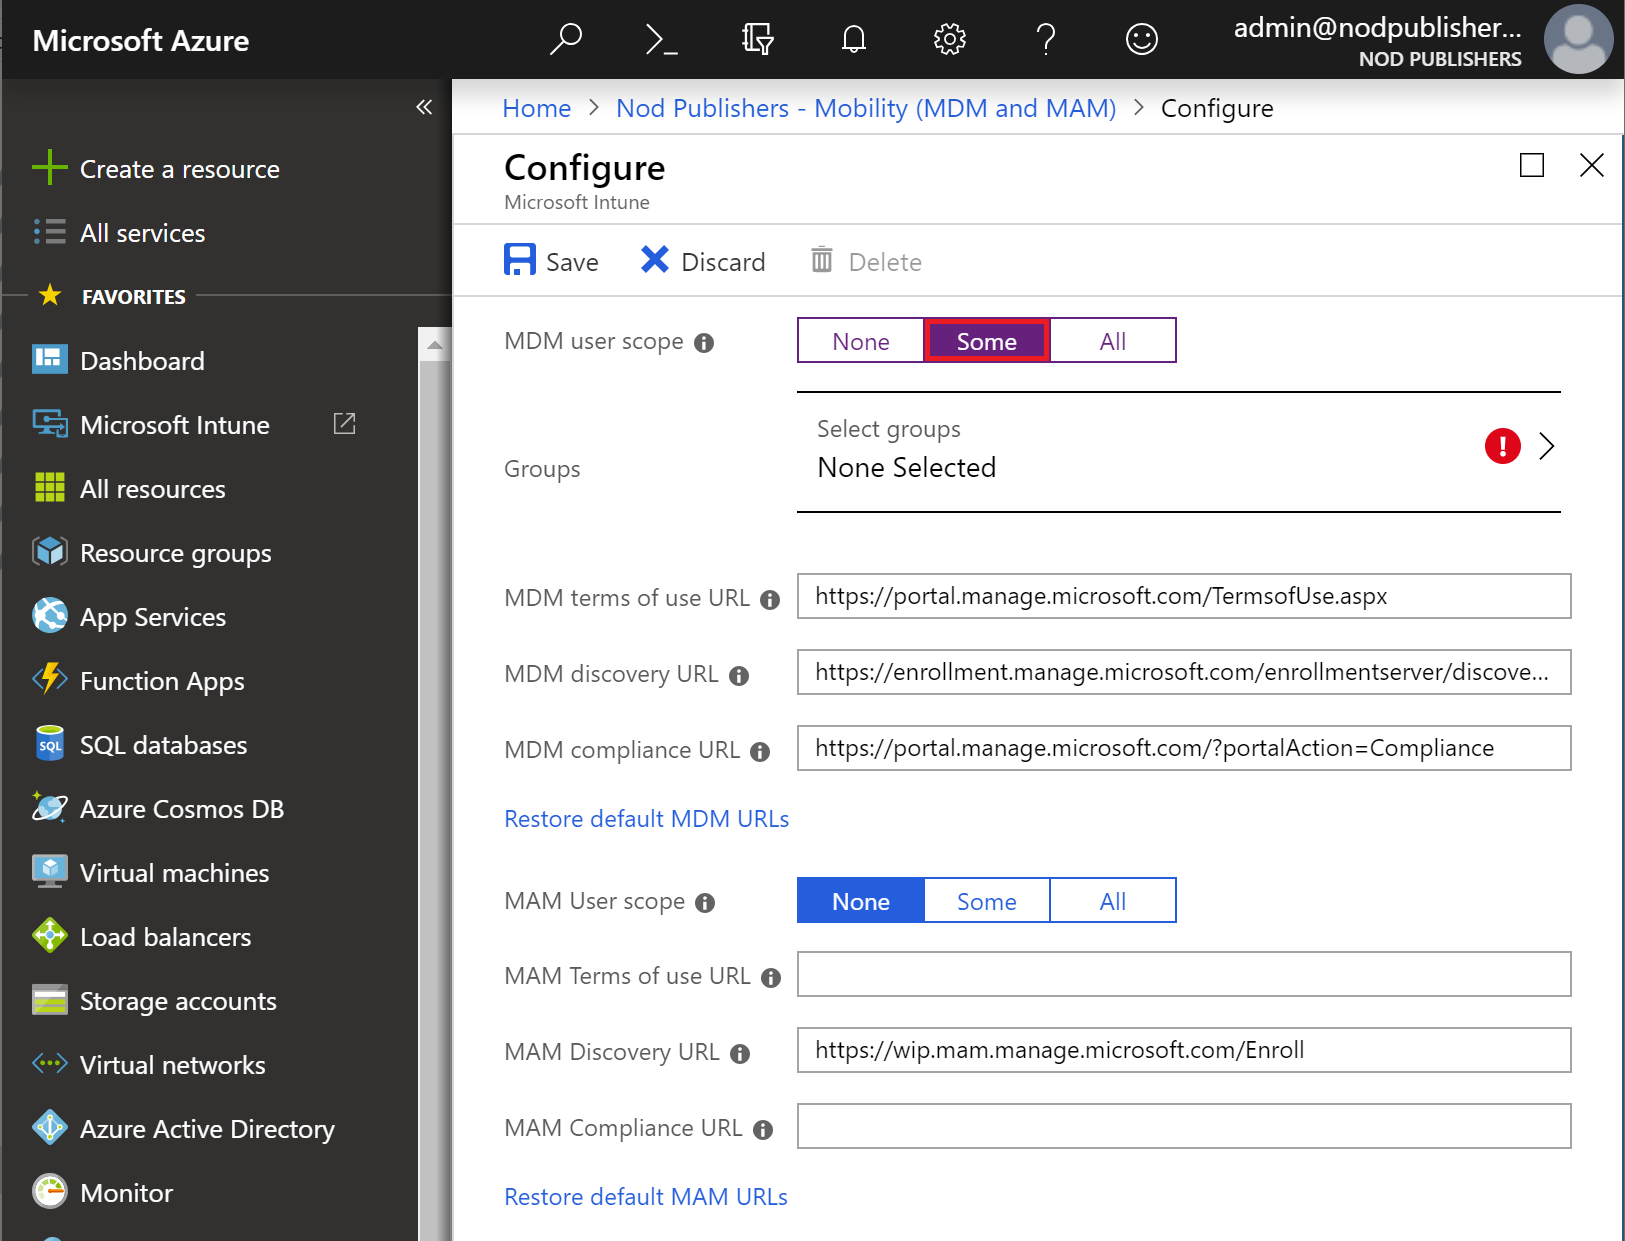
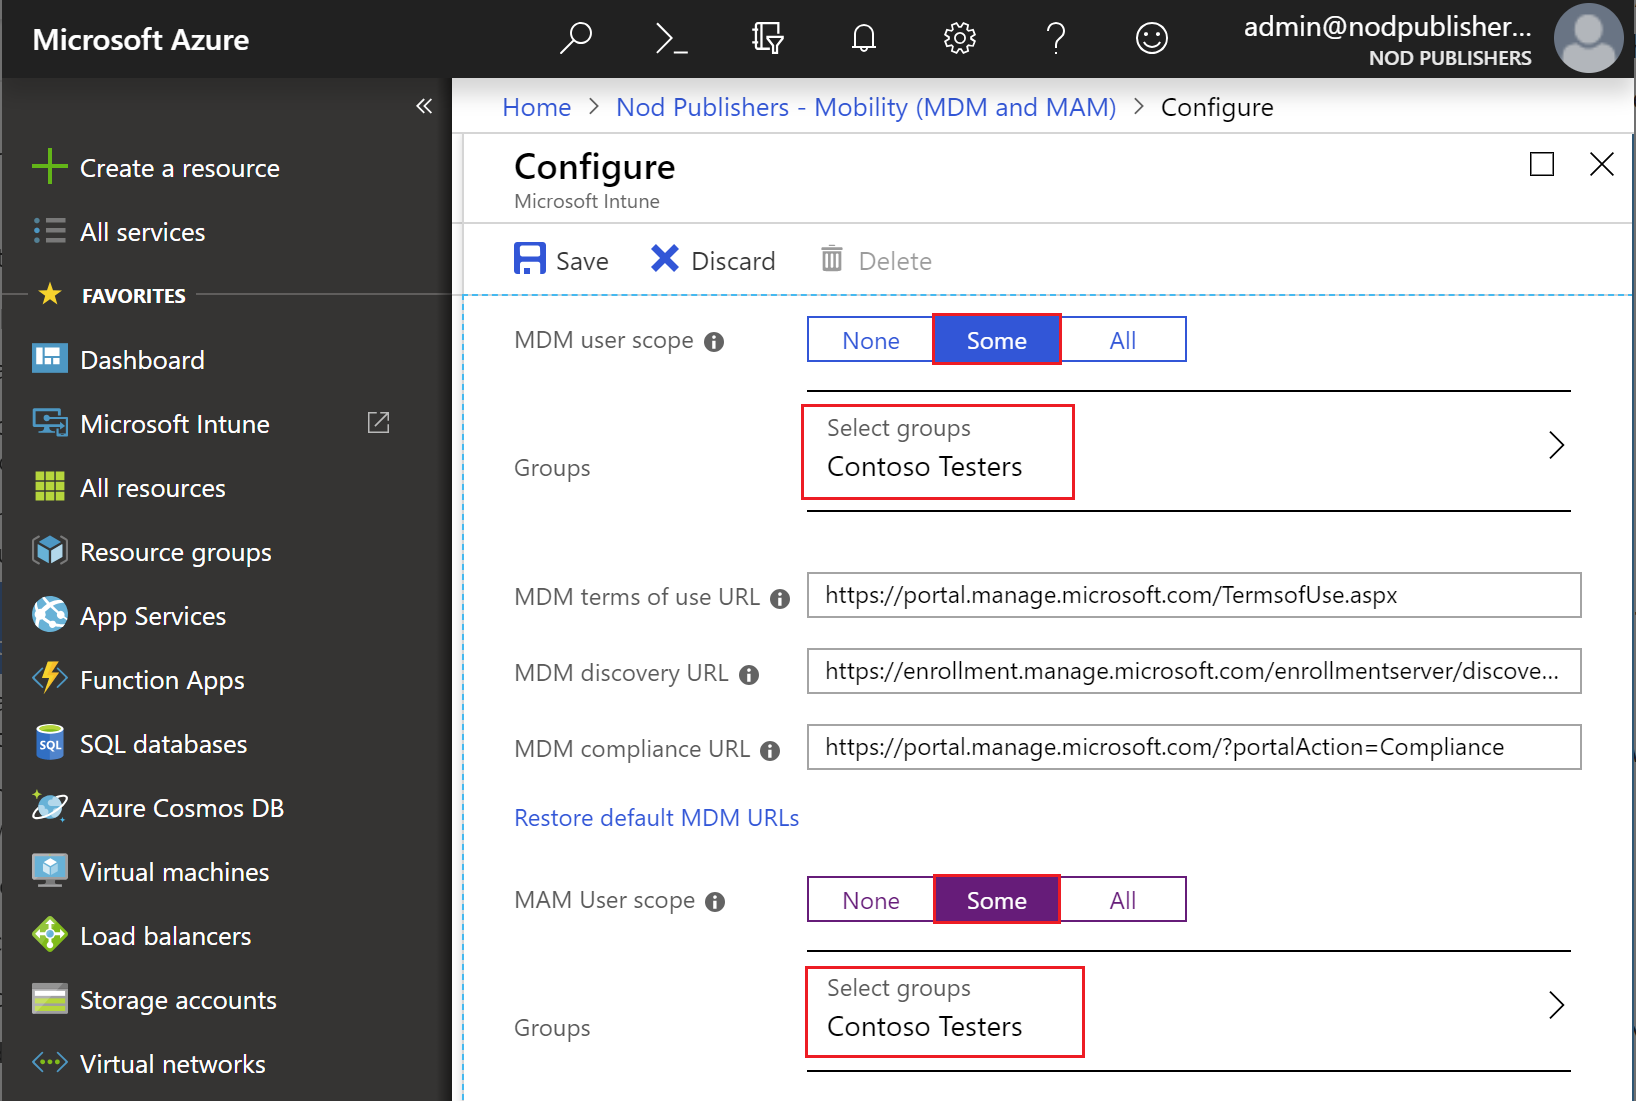
erikre 1377862 MVC AddApp 1.1

diff --git a/intune/quickstart-add-assign-app.md b/intune/quickstart-add-assign-app.md
@@ -1,14 +1,14 @@
 ---
 # required metadata
 
-title: Quickstart - Add and assign a required client app
+title: Quickstart - Add and assign a client app
 titlesuffix: Microsoft Intune
-description: In this quickstart you will use Microsoft Intune to add an assign a required client app.
+description: In this quickstart you will use Microsoft Intune to add an assign a client app.
 keywords:
 author: Erikre
 ms.author: erikre
 manager: dougeby
-ms.date: 11/06/2018
+ms.date: 11/08/2018
 ms.topic: quickstart
 ms.prod:
 ms.service: microsoft-intune
@@ -27,7 +27,7 @@ ms.custom: intune-azure
 
 ---
 
-# Quickstart: Add and assign a required client app
+# Quickstart: Add and assign a client app
 
 In this quickstart, you will use Intune to add and assign a client app to your company's workforce. One of an admin's priorities is to ensure that end users have access to the apps they need to do their work. 
 
@@ -44,8 +44,8 @@ If you don’t have an Intune subscription, [sign up for a free trial account](f
 
 1. In a browser, navigate to the Microsoft store:
     [https://www.microsoft.com/store/collections/essentialapps/pc](https://www.microsoft.com/store/collections/essentialapps/pc)
-2. Find and select the **OneNote** app. 
-3. Copy and save the URL of the **OneNote** app. You'll use the URL later in this quickstart.
+2. Find and select the **Microsoft To-Do** app. 
+3. Copy and save the URL of the **Microsoft To-Do** app. You'll use the URL later in this quickstart.
 
 ## Sign in to Intune
 
@@ -60,14 +60,15 @@ Use the following steps to add an app to Intune:
 1. In [Intune](https://aka.ms/intuneportal), select **Client apps** > **Apps** > **Add**. 
 2. Select **Windows** in the **Store app** section of the **App type** dropdown box.
 3. Select **App information** to configure the app.
-4. Enter **OneNote** as the **Name**.
-5. Enter **The Microsoft OneNote app.** as the **Description**.
+4. Enter **Contoso's To-Do** as the **Name**.
+5. Enter **The To-Do list app.** as the **Description**.
 6. Enter **Microsoft** as the publisher.
 7. Enter the URL that you [previously saved during this quickstart](quickstart-add-assign-app.md#locate-an-app-from-the-microsoft-store) in the **Appstore URL** box.
 
     ![Screenshot of adding app information](media/quickstart-add-assign-app/quickstart-add-assign-app-01.png)
 
-8. Click **OK** > **Add**.
+8. Click **Yes** next to **Display this as a featured app in the Company Portal**. 
+9. Click **OK** > **Add**.
 
 ## Assign the app to a group
 
@@ -81,18 +82,32 @@ Use the following steps to assign an app to a group:
 2. Select the app that you want to assign to a group.	
 3. Click **Assignments** > **Add group** to display the **Add group** blade.
 4. Select **Available for enrolled devices** in the **Assignment type** dropdown box. 
-5. Click **Select groups to include** > **Contoso Testers** > **Select**.
-6. Click **OK** > **OK** > **Save** to assign the group.
+5. Click **Included Groups** > **Select groups to include** > **Contoso Testers**.
+6. Click **Select** > **OK** > **OK** > **Save** to assign the group.
 
 You now have assigned the app to the **Contoso Testers** group.
 
 ## Verify the app on the enrolled device
 
+You must install and use the Company Portal app to install the **Contoso's To-Do** app made available by Intune. Use the following steps to verify that the app is available to the user of the enrolled device.
 
+1. Log in to your enrolled Windows 10 Desktop device.
+
+    > [!IMPORTANT]
+    > The device must be [enrolled with Intune](quickstart-enroll-windows-device.md). Also, you must sign in to the device using an account contained in the group you assigned to the app.
+
+2. From the **Start** menu, open the **Microsoft Store**. Then, find the **Company Portal** app and install it.
+3. Launch the **Company Portal** app.
+4. Find the app that you added using Intune. In this quickstart you added the **Contoso's To-Do** app.
+5. Click **View in Microsoft Store**.
+6. Click **Install**.  **Install on my devices**.
+7. Install the app to your current Windows 10 Desktop device.
+
+If your business needs require that you assign the Company Portal app to your workforce, you can manually assign the Windows 10 Company Portal app directly from Intune. For more information see, [Manually add the Windows 10 Company Portal app by using Microsoft Intune](store-apps-company-portal-app.md).
 
 ## Next steps
 
-In this quickstart, you added an app and created a new user group. Then, you assigned the app to the user group and verified the app on the enrolled device. 
+In this quickstart, you locateed an app from the Microsoft store, added the app to Intune, assigned the app to a group, and verified the availability of the app on the enrolled Windows 10 Desktop device. 
 
 > [!div class="nextstepaction"]
 > [Quickstart: Create and assign an app protection policy](quickstart-create-assign-app-policy.md)

diff --git a/intune/quickstart-create-assign-app-policy.md b/intune/quickstart-create-assign-app-policy.md
@@ -1,0 +1,93 @@
+---
+# required metadata
+
+title: Quickstart - Create and assign an app protection policy
+titlesuffix: Microsoft Intune
+description: In this quickstart you will use Microsoft Intune to create an assign and app protection policy.
+keywords:
+author: Erikre
+ms.author: erikre
+manager: dougeby
+ms.date: 11/08/2018
+ms.topic: quickstart
+ms.prod:
+ms.service: microsoft-intune
+ms.technology:
+ms.assetid: 2586fce0-5dca-4686-b9c4-791778838401
+
+# optional metadata
+
+#ROBOTS:
+#audience:
+#ms.devlang:
+ms.reviewer:
+ms.suite: ems
+#ms.tgt_pltfrm:
+ms.custom: intune-azure
+
+---
+
+# Quickstart: Create and assign an app protection policy
+
+In this quickstart, you will use Intune to create an assign an app protection policy to a client app on an end user's device. Intune uses app protection policies to confirm that your apps are meeting your organization’s data protection requirements.
+
+If you don’t have an Intune subscription, [sign up for a free trial account](free-trial-sign-up.md).
+
+## Prerequisites
+
+- To complete this quickstart, you must:
+    - [Create a user](quickstart-create-user.md)
+    - [Create a group](quickstart-create-group.md)
+    - [Enroll a device](quickstart-setup-auto-enrollment.md)
+    - [Add and assign an app](quickstart-add-assign-app.md)
+
+## Sign in to Intune
+
+Sign in to the [Intune](https://aka.ms/intuneportal) as a [Global administrator or an Intune Service administrator](users-add.md#types-of-administrators). If you have created an Intune Trial subscription, the account you created the subscription with is the Global administrator.
+
+## Create an app protection policy
+
+Use the following steps create an app protection policy:
+
+1. In [Intune](https://aka.ms/intuneportal), select **Client apps** > **App protection policies** > **Create Policy**. 
+2. Enter the following details: 
+
+    - Name: Pilot - *Windows 10 prevent content copy*
+    - Description: *Users associated with this policy will not be able to cut, copy, or paste any content between the assigned app and other non-managed apps on the device.*
+    - Platform: *Windows 10*
+    - Enrollment state: *With enrollment*
+
+3. Select **Protected apps** to choose the apps that must adhere to this policy.
+4. Click **Add apps**.
+5. Under **Recommended apps**, find and select **Microsoft OneNote**.
+5. Click **OK** > **OK**. 
+6. Select **Required settings** to configure the app.
+7. Click **Block** to set the Windows Information Protection mode. Selecting this option will block enterprise data from leaving the protected app.
+8. Click **OK** > **Create**.
+
+You’ll now see the app protection policy in Intune.
+
+### Assign the app protection policy
+
+After you've created an app protection policy in Intune, you can assign to groups. 
+
+Use the following steps to assign the app protection policy:
+
+1.	In [Intune](https://aka.ms/intuneportal), select **Intune** > **Client apps** > **App protection policies**. 
+2.	Select the app protection policy you created earlier. In this quickstart, the policy is **Windows 10 prevent content copy**.
+3.	Select **Assignments**.
+4.	Click **Select groups to include** in the **Include** tab.
+5.	Select **Contoso Testers** as the group to include.
+6.	Click **Select**. 
+
+You now have assigned the app protection policy.
+
+> [!NOTE]
+> App protection policies can only be applied to groups that contains users, not groups that contain devices.
+
+## Next steps
+
+In this quickstart, you created and assigned an app protection policy. Users of the app that have this policy assigned will not be able to cut, copy, or paste any content between the assigned app and other non-managed apps on the device. This type of protection will help protect your organization’s data.
+
+> [!div class="nextstepaction"]
+> [Quickstart: Create and assign a custom role](quickstart-create-custom-role.md)

diff --git a/intune/quickstart-setup-auto-enrollment.md b/intune/quickstart-setup-auto-enrollment.md
@@ -46,12 +46,14 @@ For this example, you'll use MDM enrollment so that both corporate and bring-you
 
     ![Select 'Some' from the Configure list](media/quickstart-setup-auto-enrollment/quickstart-setup-auto-enrollment-04.png)
 
-5. Choose **Select groups** > **Contoso Testers** > **Select**.
+5. Choose **Select groups** > **Contoso Testers** > **Select** as the assigned group.
 
     ![Select the group to enroll](media/quickstart-setup-auto-enrollment/quickstart-setup-auto-enrollment-05.png)
 
-6. Use the default values for the remaining configuration values.
-7. Choose **Save**.
+6. Select **Some** from the **MAM Users scope** to manage data on your workforce's devices.
+7. Choose **Select groups** > **Contoso Testers** > **Select** as the assigned group. 
+8. Use the default values for the remaining configuration values.
+9. Choose **Save**.
 
 ## Clean up resources
 

diff --git a/intune/free-trial-sign-up.md b/intune/free-trial-sign-up.md
@@ -132,4 +132,4 @@ There are two portals that you might use:
 In this quickstart, you've created a free subscription to try Intune in a test environment and optionally configured a custom domain name. To learn more about Microsoft Intune, continue to the next quickstart to add users and assign licenses.
 
 > [!div class="nextstepaction"]
-> [Create a user](quickstart-create-user.md)
+> [Quickstart: Create a user and assign a license to it](quickstart-create-user.md)

diff --git a/intune/quickstart-send-notification.md b/intune/quickstart-send-notification.md
@@ -114,4 +114,4 @@ When you've successfully created and saved the policy, it will appear in the lis
 In this quickstart, you used Intune to create and assign a compliance policy for your workforce's Windows 10 devices to require a password of at least six characters in length.
 
 > [!div class="nextstepaction"]
-> [Quickstart: Create and assign a custom role](quickstart-create-custom-role.md)
+> [Quickstart: Add and assign a client app](quickstart-add-assign-app.md)

diff --git a/intune/quickstart-set-password-length-android.md b/intune/quickstart-set-password-length-android.md
@@ -68,4 +68,4 @@ When no longer needed, delete the policy. To do so, select the compliance policy
 In this quickstart, you used Intune to create a compliance policy for your workforce's Android devices to require a password of at least six characters in length.
 
 > [!div class="nextstepaction"]
-> [Send notifications to noncompliant devices](quickstart-send-notification.md)
+> [Quickstart: Send notifications to noncompliant devices](quickstart-send-notification.md)

diff --git a/intune/quickstart-create-custom-role.md b/intune/quickstart-create-custom-role.md
@@ -63,4 +63,4 @@ If you don't want to use the new custom role any more, you can delete it. Choose
 In this quickstart, you created a custom security operations role and assigned it to a group. You can learn more about security issues in the following article.
 
 > [!div class="nextstepaction"]
-> [Get started with device compliance policies](device-compliance-get-started.md)
+> [Quickstart: Create an email device profile for iOS](quickstart-create-custom-role.md)

diff --git a/intune/quickstart-create-user.md b/intune/quickstart-create-user.md
@@ -60,4 +60,4 @@ If you don't need this user any more, you can delete the user by navigating to t
 In this quickstart, you created a user and assigned a license to the user. You can now assign that user to a group.
 
 > [!div class="nextstepaction"]
-> [Create a group](quickstart-create-group.md)
+> [Quickstart: Create a group to manage users](quickstart-create-group.md)
